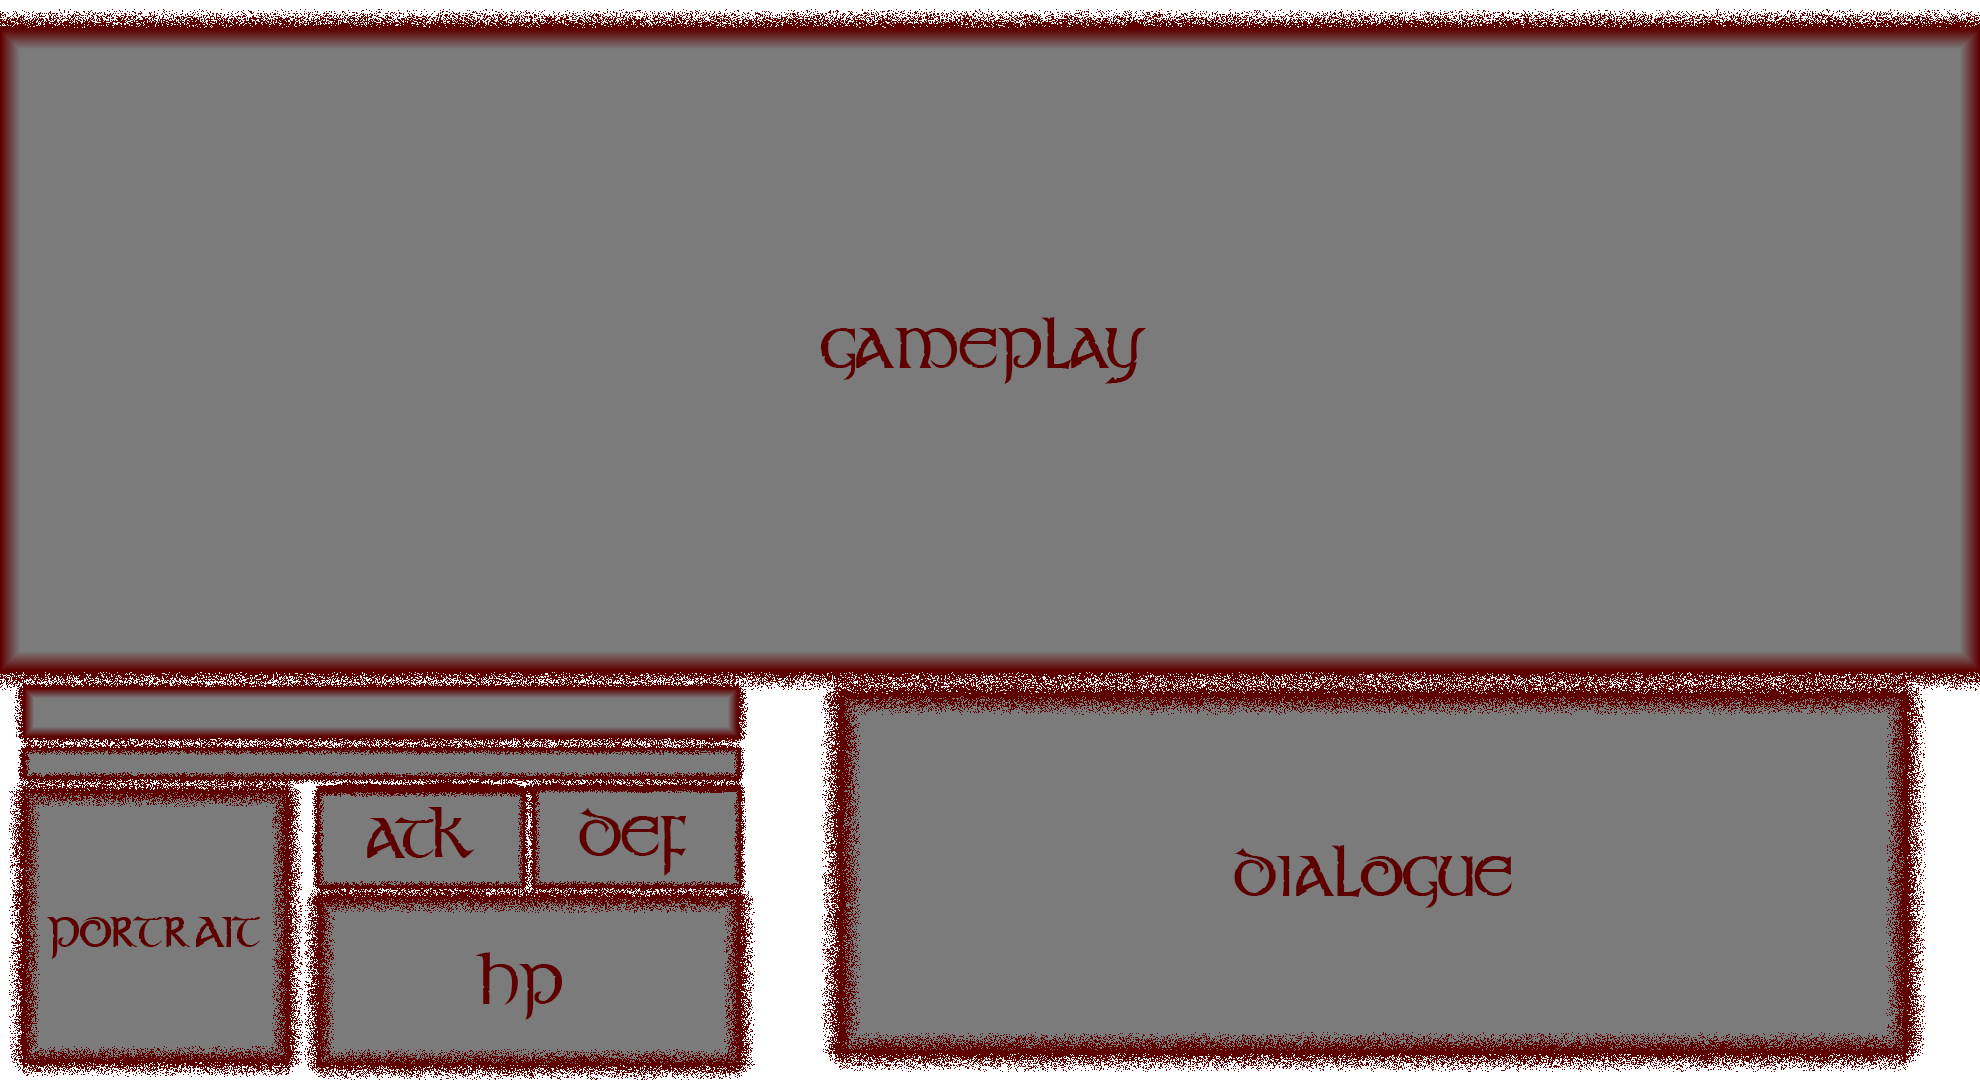
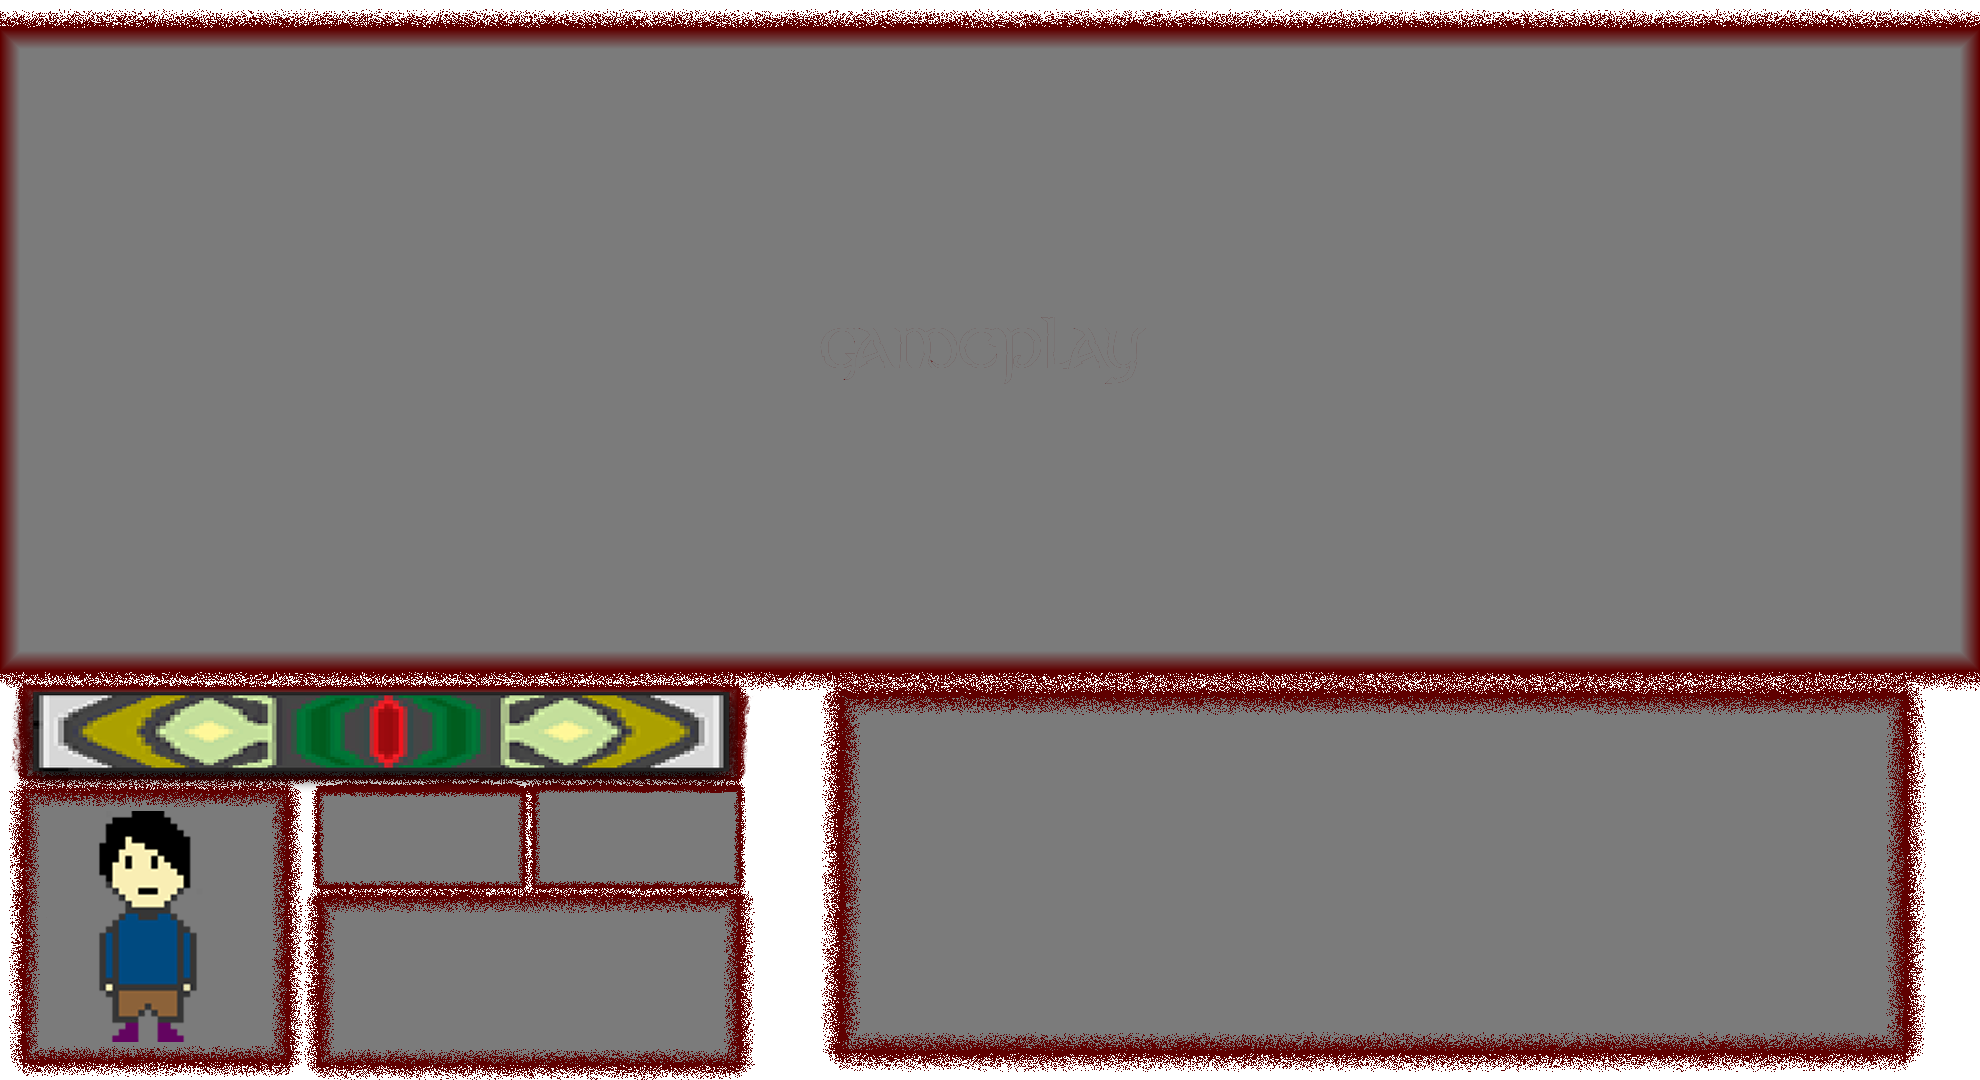
if statements for switching menus, added edited versions of the basic battle and item UI's

diff --git a/As Far as the Light Reaches/Game1.cs b/As Far as the Light Reaches/Game1.cs
@@ -26,6 +26,7 @@ namespace As_Far_as_the_Light_Reaches
         Texture2D statsMenu;
         Texture2D itemsMenu;
         Texture2D title;
+        Texture2D basicUI;
         Texture2D battleUI;
 
         // Protag Textures 
@@ -168,11 +169,13 @@ namespace As_Far_as_the_Light_Reaches
 
             // Loading in the protagonist sprite
             protag = Content.Load<Texture2D>("Characters\\Protag\\Protag.png");
+
             startMenu = Content.Load<Texture2D>("UI\\Start Menu.png");  // Loading in the start menu
             statsMenu = Content.Load<Texture2D>("UI\\Stats Menu.png");  // Loading in the stats menu
             itemsMenu = Content.Load<Texture2D>("UI\\Items Menu.png");  // Loading in the items menu
             title = Content.Load <Texture2D>("UI\\Title Screen.png");   // Loading in title screen
-            battleUI = Content.Load<Texture2D>("UI\\Battle UI.png");   //Loading in the battle UI.
+            basicUI = Content.Load<Texture2D>("UI\\Basic UI.png");      // Loading in basic UI
+            battleUI = Content.Load<Texture2D>("UI\\Battle UI.png");    //Loading in the battle UI.
 
             //Arrow keys
             aR = Content.Load<Texture2D>("UI\\ArrowKey\\Right.png");
@@ -215,8 +218,8 @@ namespace As_Far_as_the_Light_Reaches
 
 
 
-            meter = Content.Load<Texture2D>("UI\\combatMeter.png");  //Loading in the combat meter
-            meterObj = Content.Load<Texture2D>("UI\\combatMeterObj.png");   //Loading in the combat meter object
+            //meter = Content.Load<Texture2D>("UI\\combatMeter.png");  //Loading in the combat meter
+            //meterObj = Content.Load<Texture2D>("UI\\combatMeterObj.png");   //Loading in the combat meter object
 
 
         }
@@ -295,8 +298,6 @@ namespace As_Far_as_the_Light_Reaches
                         {
                             meterObjRec.X = +0;    //Stop the position of the meter object
                             curEnemy.PlayerAttack(player.Damage, meterObjRec.X);
-
-
                         }
 
                         attackState = false;    ///lastly set the attack phase to blocking.
@@ -360,6 +361,9 @@ namespace As_Far_as_the_Light_Reaches
                     //Draw character
                     spriteBatch.Draw(player.PlayerTexture, player.PlayerRec, Color.White);
 
+                    //Draw basic UI
+                    spriteBatch.Draw(basicUI, pauseVec, Color.White);
+
                     //draw map
                     var viewMatrix = cam.GrabMatrix();
                     mapBatch.Begin(transformMatrix: viewMatrix);
@@ -375,6 +379,17 @@ namespace As_Far_as_the_Light_Reaches
                         this.IsMouseVisible = true; //Make the mouse visable
                         //Draw pause menu GUI
                         spriteBatch.Draw(startMenu, pauseVec, Color.White);
+
+                        //Checking for player input and changing menu accordingly
+                        if(SingleKeyPress(Keys.I))
+                        {
+                            spriteBatch.Draw(itemsMenu, pauseVec, Color.White);
+                        }
+
+                        if(SingleKeyPress(Keys.S))
+                        {
+                            spriteBatch.Draw(statsMenu, pauseVec, Color.White);
+                        }
                     }
 
 
